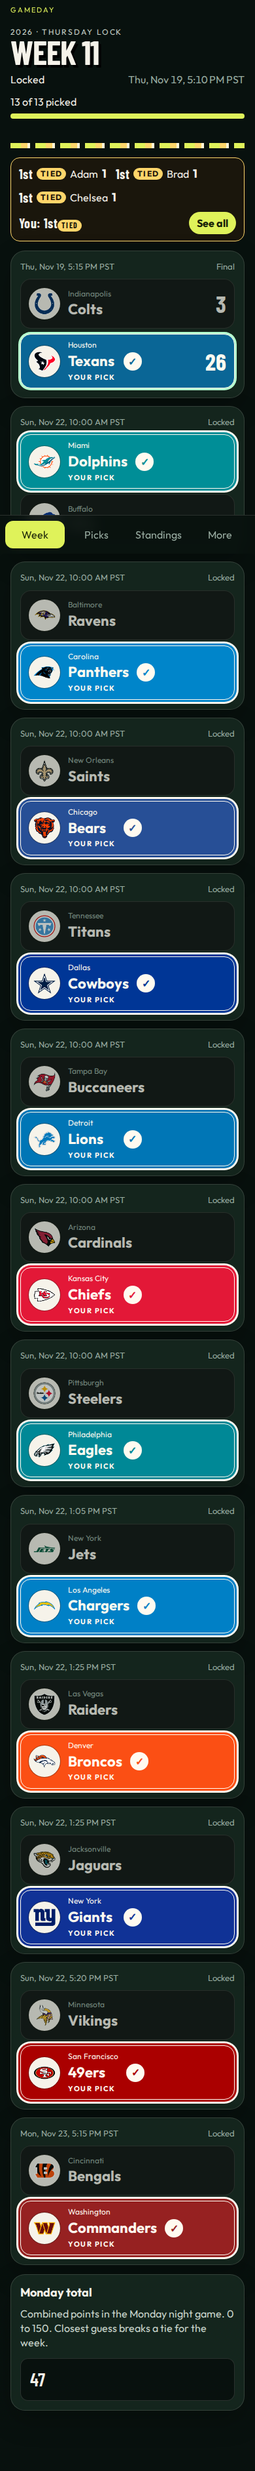
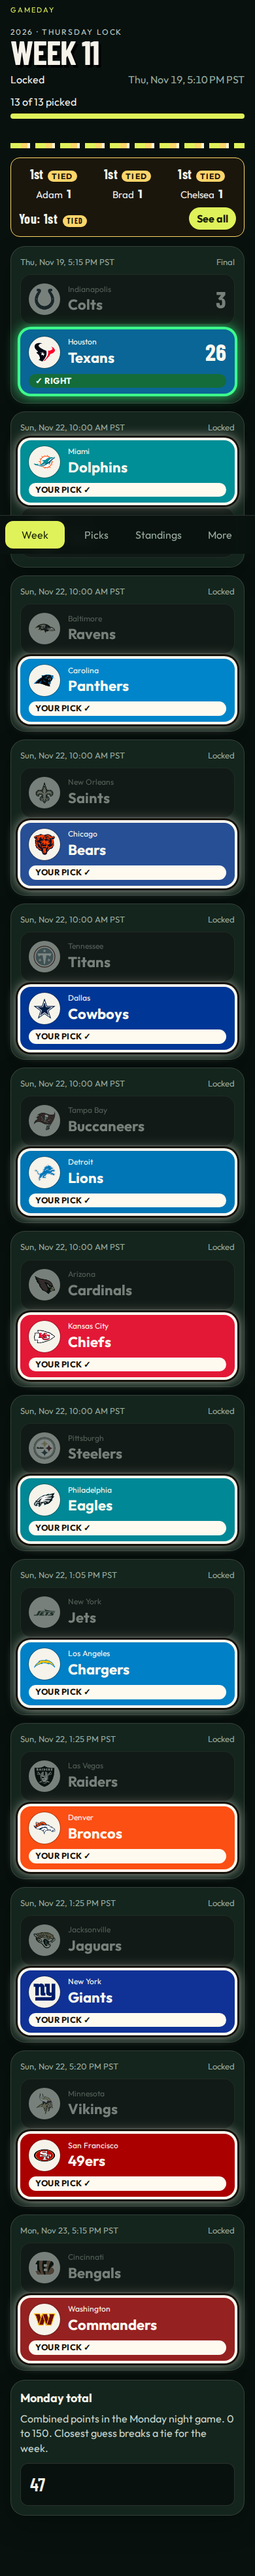
Make the picked card show whether that pick was right.
A final game keeps the ring, glow, and badge on the team you chose. A wrong pick turns red with a Wrong badge, and the team that won only gets a small W.

Changed region(s): [[0.0, 0.0, 0.9538, 0.9939]]

diff --git a/src/styles.css b/src/styles.css
@@ -98,8 +98,9 @@ main {
   --team: var(--accent);
   --ink: var(--text);
   display: flex;
+  flex-wrap: wrap;
   align-items: center;
-  gap: 12px;
+  gap: 8px 12px;
   width: 100%;
   min-height: 76px;
   text-align: left;
@@ -108,43 +109,80 @@ main {
   padding: 8px 12px;
   background: #101412;
   box-shadow: none;
-  opacity: 0.72;
+  opacity: 0.5;
+  filter: saturate(0.25) brightness(0.9);
 }
+.team-name { flex: 1 1 auto; min-width: 0; }
 .team small { display: block; color: var(--faint); font-size: 12px; }
 .team strong { font-size: 22px; color: var(--text); }
 .team .score { margin-left: auto; font-family: var(--display); font-size: 36px; }
-.team .your-pick {
-  display: block;
-  margin-top: 2px;
+.pick-badge {
+  flex: 1 0 100%;
+  width: max-content;
+  max-width: 100%;
+  margin: 0;
+  padding: 3px 10px;
+  border-radius: 999px;
+  background: #fffaf0;
+  color: #16120a;
   font-style: normal;
-  font-size: 11px;
-  font-weight: 700;
-  letter-spacing: 0.14em;
-  text-transform: uppercase;
-}
-.check-mark {
-  width: 28px;
-  height: 28px;
-  border-radius: 50%;
-  display: grid;
-  place-items: center;
+  font-size: 13px;
   font-weight: 800;
-  background: var(--ink);
-  color: var(--team);
+  letter-spacing: 0.04em;
+  line-height: 1.2;
+  text-transform: uppercase;
+  white-space: nowrap;
+}
+.pick-badge.right { background: #146c3a; color: #f4fff8; }
+.pick-badge.wrong { background: #9d1c28; color: #fff6f6; }
+.pick-badge.tie { background: #d5d5d5; color: #1a1a1a; }
+.winner-mark {
+  margin-left: 4px;
+  padding: 1px 6px;
+  border-radius: 999px;
+  border: 1px solid rgba(246, 243, 234, 0.35);
+  color: #d7d3c8;
+  background: transparent;
+  font-size: 12px;
+  font-weight: 800;
+  letter-spacing: 0.08em;
 }
 .team.selected {
   opacity: 1;
+  filter: none;
   background: var(--team);
   color: var(--ink);
-  border-color: #fffaf0;
-  box-shadow: 0 0 0 3px var(--team), 0 0 0 6px #fffaf0;
+  border-color: transparent;
+  box-shadow:
+    0 0 0 4px #fffaf0,
+    0 0 0 7px #16120a,
+    0 0 18px 3px rgba(255, 250, 240, 0.9);
 }
 .team.selected small,
 .team.selected strong,
-.team.selected .your-pick,
 .team.selected .score { color: var(--ink); }
-.team.good { box-shadow: 0 0 0 3px var(--good); }
-.team.bad { box-shadow: 0 0 0 3px var(--bad); }
+.team.selected .pick-badge { color: #16120a; }
+.team.selected.right {
+  box-shadow:
+    0 0 0 4px #3dff8a,
+    0 0 20px 3px rgba(61, 255, 138, 0.85);
+}
+.team.selected.right .pick-badge { color: #f4fff8; }
+.team.selected.wrong {
+  opacity: 0.78;
+  filter: saturate(0.72);
+  box-shadow:
+    0 0 0 4px #ff4d5a,
+    0 0 20px 3px rgba(255, 77, 90, 0.8);
+}
+.team.selected.wrong .pick-badge { color: #fff6f6; }
+.team.selected.tie {
+  box-shadow:
+    0 0 0 4px #c8c8c8,
+    0 0 16px 2px rgba(200, 200, 200, 0.7);
+}
+.team.selected.tie .pick-badge { color: #1a1a1a; }
+.team.winner { box-shadow: none; }
 .team:disabled { cursor: default; }
 .logo-badge {
   display: grid;
@@ -241,7 +279,16 @@ main {
 .liveboard b { margin-left: auto; font-family: var(--display); font-size: 22px; }
 .standings button.me, .gridrow.me .sticky {
   background: color-mix(in srgb, var(--accent) 22%, var(--bg-elev));
-  box-shadow: inset 4px 0 0 var(--accent);
+}
+.gridrow.me .sticky { padding-left: 14px; }
+.gridrow.me .sticky::before {
+  content: "";
+  position: absolute;
+  left: 0;
+  top: 0;
+  bottom: 0;
+  width: 4px;
+  background: var(--accent);
 }
 .standings button { display: grid; grid-template-columns: 72px 1fr auto; align-items: center; }
 .place { font-family: var(--display); font-size: 28px; }
@@ -346,17 +393,24 @@ main {
   border: 1px solid var(--gold);
   background: #1a160c;
 }
-.strip-top { display: flex; flex-wrap: wrap; gap: 8px 14px; }
-.strip-person {
-  display: inline-flex;
-  align-items: center;
-  gap: 6px;
-  font-size: 16px;
-  white-space: nowrap;
+.strip-top {
+  display: grid;
+  grid-template-columns: repeat(3, minmax(0, 1fr));
+  align-items: baseline;
+  gap: 8px;
 }
-.strip-person b, .strip-you strong { font-family: var(--display); font-size: 20px; letter-spacing: 0.02em; }
+.strip-person {
+  display: flex;
+  flex-wrap: wrap;
+  align-items: baseline;
+  justify-content: center;
+  gap: 4px 6px;
+  font-size: 15px;
+}
+.strip-person b, .strip-you strong, .strip-you-line { font-family: var(--display); font-size: 20px; letter-spacing: 0.02em; }
 .strip-person strong { font-size: 18px; }
 .strip-you { display: flex; align-items: center; gap: 8px; }
+.strip-you-line { display: inline-flex; align-items: baseline; gap: 8px; }
 .strip-you button { margin-left: auto; }
 .strip .tied-pill { font-size: 12px; padding: 1px 6px; letter-spacing: 0.1em; }
 .strip-you button, .strip.open > button {
@@ -437,19 +491,22 @@ main {
   .scroll-hint { display: none; }
   .gridwrap { overflow-x: auto; }
   .gridrow {
-    --name: 132px;
+    --name: 156px;
     width: 100%;
     min-width: 100%;
-    grid-template-columns: var(--name) repeat(var(--games), minmax(0, 1fr)) minmax(96px, 1.7fr);
+    grid-template-columns: var(--name) repeat(var(--games), minmax(0, 1fr)) minmax(0, 1fr);
   }
   .gridrow > div { padding: 4px 3px; }
-  .sticky { padding-left: 8px; }
+  .sticky { padding-left: 10px; }
+  .gridrow.me .sticky { padding-left: 16px; }
+  .who-rank { font-size: 18px; }
+  .who-name { font-size: 17px; }
+  .who-pts { font-size: 26px; }
   .gh { overflow: visible; }
   .gh b, .gh span { font-size: 13px; }
   .gh .logo-badge { width: 34px; height: 34px; }
   .gh .logo-badge img { width: 26px; height: 26px; }
-  .gh.mnf { min-width: 96px; }
-  .cell.guess { min-width: 96px; font-size: 18px; }
+  .cell.guess { font-size: 18px; }
   .cell { font-size: 14px; min-height: 52px; }
   .app { display: grid; grid-template-columns: 220px 1fr; }
   .app.solo { grid-template-columns: 1fr; }

diff --git a/tests/e2e/pool.spec.ts b/tests/e2e/pool.spec.ts
@@ -26,9 +26,16 @@ async function rpc(fn: string, body: unknown) {
 
 async function shot(page: Page, name: string) {
   await page.screenshot({ path: `${shots}/${name}.png`, fullPage: true });
-  if (name.startsWith("phone-")) {
+  if (name.startsWith("phone-") || name.startsWith("desktop-pick")) {
     await page.screenshot({ path: `${phoneShots}/${name}.png`, fullPage: true });
   }
+}
+
+async function shotCard(page: Page, slot: number, name: string) {
+  const card = page.getByTestId(`game-${slot}`);
+  await card.evaluate((node) => node.scrollIntoView({ block: "center", inline: "nearest" }));
+  await card.screenshot({ path: `${shots}/${name}.png` });
+  await card.screenshot({ path: `${phoneShots}/${name}.png` });
 }
 
 test("a player can pick, lock, review, and Brad can run the pool", async ({ page }) => {
@@ -158,6 +165,55 @@ test("a player can pick, lock, review, and Brad can run the pool", async ({ page
   await page.getByTestId("override-1").click();
   await expect(page.getByTestId("admin-message")).toHaveText("Saved");
   await shot(page, "phone-admin");
+
+  const byTeam = (id: string) => boot.games.find((game: { home: { id: string }; away: { id: string } }) => game.home.id === id || game.away.id === id);
+  const texans = byTeam("HOU");
+  const bills = byTeam("BUF");
+  const bears = byTeam("CHI");
+  if (!texans || !bills || !bears) throw new Error("Week 11 is missing a Texans, Bills, or Bears game");
+  await rpc("admin_override_game", {
+    p_admin_token: tokens.admin,
+    p_game_id: bills.id,
+    p_note: "Bills win for the wrong-pick card",
+    p_patch: { status: "final", is_tie: false, winner_team_id: "BUF" },
+  });
+  await rpc("admin_override_game", {
+    p_admin_token: tokens.admin,
+    p_game_id: bears.id,
+    p_note: "Bears tie for the tie card",
+    p_patch: { status: "final", is_tie: true },
+  });
+  await page.goto("/#/");
+  await page.reload();
+  const right = page.getByTestId(`pick-${texans.slot}-HOU`);
+  const wrong = page.getByTestId(`pick-${bills.slot}-MIA`);
+  const billsCard = page.getByTestId(`pick-${bills.slot}-BUF`);
+  const tie = page.getByTestId(`pick-${bears.slot}-CHI`);
+  await expect(right).toHaveClass(/right/);
+  await expect(right).toContainText("Right");
+  await expect(right).not.toContainText("Your pick");
+  await expect(wrong).toHaveClass(/wrong/);
+  await expect(wrong).toContainText("Wrong");
+  await expect(wrong).not.toContainText("Your pick");
+  await expect(billsCard).toHaveClass(/winner/);
+  await expect(billsCard).not.toHaveClass(/right/);
+  await expect(billsCard).toContainText("W");
+  await expect(tie).toHaveClass(/tie/);
+  await expect(tie).toContainText("Tie");
+  await shotCard(page, texans.slot, "phone-pick-right");
+  await shotCard(page, bills.slot, "phone-pick-wrong");
+  await shotCard(page, bears.slot, "phone-pick-tie");
+
+  await page.setViewportSize({ width: 1280, height: 800 });
+  await page.reload();
+  const openBadge = page.locator(".pick-badge", { hasText: "Your pick" }).first();
+  await expect(openBadge).toBeVisible();
+  const badgeBox = await openBadge.boundingBox();
+  expect(badgeBox && badgeBox.height).toBeLessThan(28);
+  await shotCard(page, texans.slot, "desktop-pick-right");
+  await shotCard(page, bills.slot, "desktop-pick-wrong");
+  await shotCard(page, bears.slot, "desktop-pick-tie");
+  await page.setViewportSize({ width: 390, height: 844 });
 
   const fresh = await rpc("bootstrap", { p_player_token: tokens["Chelsea Jess"], p_admin_token: tokens.admin });
   for (const game of fresh.games) {

diff --git a/src/screens/Week.tsx b/src/screens/Week.tsx
@@ -151,15 +151,19 @@ export function WeekScreen({ boot, token }: { boot: Boot; token: string }) {
               <div className="match">
                 {[game.away, game.home].map((team) => {
                   const selected = mine === team.id;
-                  const won = decided && !game.is_tie && game.winner_team_id === team.id;
-                  const lost = decided && selected && !won;
+                  const winner = decided && !game.is_tie && game.winner_team_id === team.id;
+                  let result = "";
+                  if (selected && decided && game.is_tie) result = " tie";
+                  else if (selected && decided && winner) result = " right";
+                  else if (selected && decided) result = " wrong";
+                  else if (!selected && winner) result = " winner";
                   const raw = team.id === game.away.id ? game.away_score : game.home_score;
                   const score = showScore(game.status) ? raw : null;
                   return (
                     <button
                       key={team.id}
                       type="button"
-                      className={`team${selected ? " selected" : ""}${won ? " good" : ""}${lost ? " bad" : ""}`}
+                      className={`team${selected ? " selected" : ""}${result}`}
                       style={{ "--team": readableTeamColor(team.color), "--ink": luminance(readableTeamColor(team.color)) > 0.45 ? "#16120a" : "#fffaf0" } as CSSProperties}
                       aria-pressed={selected}
                       disabled={game.locked || !boot.me}
@@ -167,13 +171,16 @@ export function WeekScreen({ boot, token }: { boot: Boot; token: string }) {
                       onClick={() => choose(game, team.id)}
                     >
                       <Logo src={team.logo} size={36} />
-                      <span>
+                      <span className="team-name">
                         <small>{team.location}</small>
                         <strong>{team.short_name}</strong>
-                        {selected && <em className="your-pick">Your pick</em>}
                       </span>
-                      {selected && <span className="check-mark" aria-hidden="true">✓</span>}
+                      {!selected && winner && <span className="winner-mark">W</span>}
                       {score != null && <b className="score">{score}</b>}
+                      {selected && !decided && <em className="pick-badge">Your pick ✓</em>}
+                      {selected && decided && game.is_tie && <em className="pick-badge tie">Tie</em>}
+                      {selected && decided && !game.is_tie && winner && <em className="pick-badge right">✓ Right</em>}
+                      {selected && decided && !game.is_tie && !winner && <em className="pick-badge wrong">✗ Wrong</em>}
                     </button>
                   );
                 })}
@@ -233,8 +240,8 @@ function WeekBoard({ rows, meId }: { rows: NonNullable<Boot["leaderboard"]>; meI
         </div>
         <div className="strip-you">
           {me && (
-            <strong>
-              You: {me.place}
+            <strong className="strip-you-line">
+              <span>You: {me.place}</span>
               {me.tied && <em className="tied-pill">TIED</em>}
             </strong>
           )}
